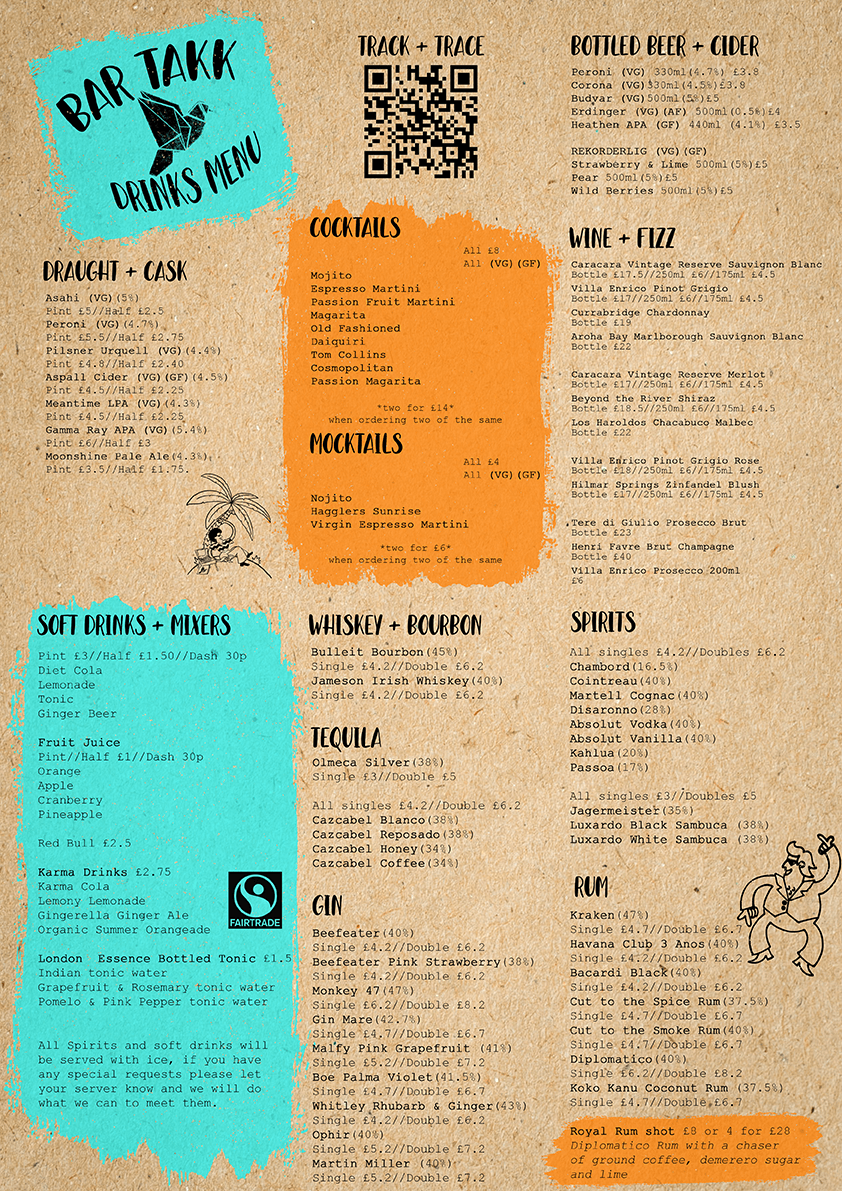
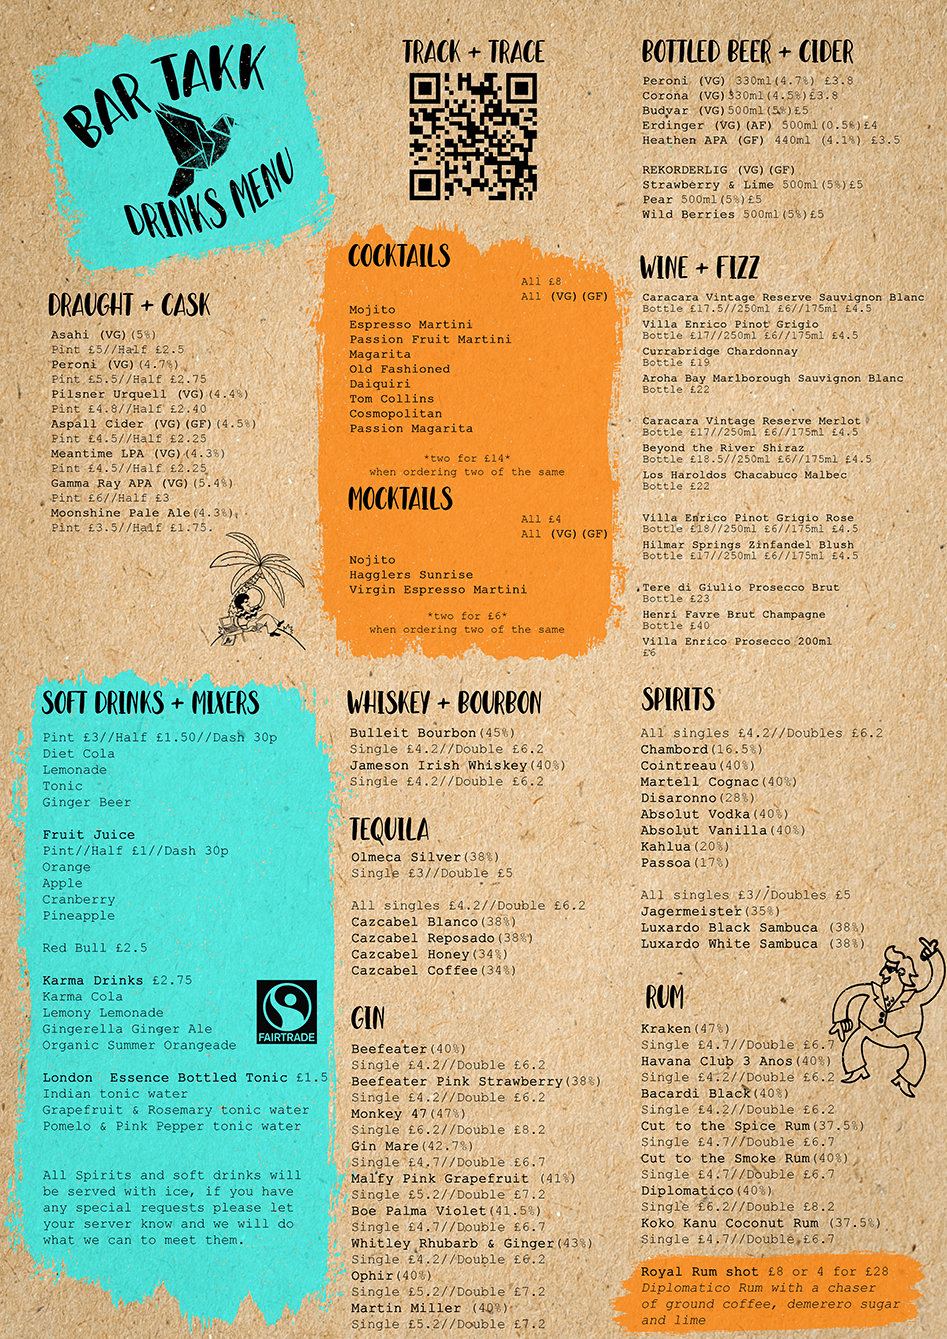
apr-21

diff --git a/src/menus/BarMenu.js b/src/menus/BarMenu.js
@@ -1,6 +1,7 @@
 import React, { useState } from 'react'
 import {
     Button,
+    Grid,
     Card,
     Header,
     Icon,
@@ -9,7 +10,7 @@ import {
     Modal,
 } from 'semantic-ui-react'
 import BarMenuImage from './../assets/BarMenu.png'
-import BhajiShopImage from './../assets/BhajiShopImage.jpg'
+import BhajiShopImage from './../assets/BhajiShopImage_narrow.png'
 
 export default function () {
     const [modalOpen, setModalOpen] = useState(false)
@@ -34,7 +35,7 @@ export default function () {
                     />
                 </Modal.Content>
             </Modal>
-            <Header as="h2" color="purple">
+            <Header as="h2" color="black">
                 <Header.Content>
                     <Icon name="food" size="small" />
                     <Icon name="bar" size="small" />
@@ -42,7 +43,7 @@ export default function () {
                 </Header.Content>
             </Header>
             <Card.Group itemsPerRow={1}>
-                <Card>
+                <Card raised>
                     <Card.Content>
                         <Card.Header>Takk Drinks Menu</Card.Header>
                     </Card.Content>
@@ -60,7 +61,7 @@ export default function () {
                     <Card.Content extra>
                         <Button
                             color="teal"
-                            onClick={() => handleSetOpen('/BarMenu.jpg')}
+                            onClick={() => handleSetOpen('/BarMenu2021.png')}
                         >
                             <Icon name="image outline" />
                             Menu
@@ -69,13 +70,8 @@ export default function () {
                 </Card>
             </Card.Group>
             <Card.Group itemsPerRow={1}>
-                <Card as="a">
-                    <Label
-                        as="a"
-                        color="purple"
-                        ribbon
-                        style={{ left: '-1rem' }}
-                    >
+                <Card raised>
+                    <Label color="purple" ribbon style={{ left: '-1rem' }}>
                         See the chalk boards for today's curry pots
                     </Label>
                     <Card.Content>
@@ -87,6 +83,37 @@ export default function () {
                         style={{ width: '100%' }}
                     />
                     <Card.Content>
+                        <Grid columns={2}>
+                            {[
+                                {
+                                    text: 'Thalis',
+                                    src: '/Bhaji_Menu_Thalis.png',
+                                },
+                                {
+                                    text: 'Coffee & cake',
+                                    src: '/Bhaji_Menu_Coffee_Cakes.png',
+                                },
+                                {
+                                    text: 'Brunch',
+                                    src: '/Bhaji_Menu_Brunch.png',
+                                },
+                                { text: 'Lunch', src: '/Bhaji_Menu_Lunch.png' },
+                            ].map((img) => (
+                                <Grid.Column>
+                                    <Button
+                                        style={{ width: '90%' }}
+                                        key={img.src}
+                                        color="teal"
+                                        onClick={() => handleSetOpen(img.src)}
+                                    >
+                                        <Icon name="image outline" />
+                                        {img.text}
+                                    </Button>
+                                </Grid.Column>
+                            ))}
+                        </Grid>
+                    </Card.Content>
+                    <Card.Content extra>
                         <Card.Description>
                             Serving freshly cooked Indian inspire food.
                         </Card.Description>

diff --git a/src/loginForm/index.js b/src/loginForm/index.js
@@ -78,13 +78,13 @@ const LoginForm = ({ db }) => {
     }
     return (
         <>
-            <Message success={formSucces}>
+            <Message success={formSucces} raised size="small">
                 <Message.Header>Check in</Message.Header>This form's for track
-                and trace. The data will only be shared with NHS track and
-                trace, and only if required. Opt-in for special offers, events
-                and more good times.
+                and trace and the data will only be shared with NHS track and
+                trace, if required. Opt-in for special offers, events and more
+                good times.
             </Message>
-            <Header as="h2" color="purple" textAlign="center">
+            <Header as="h2" color="black" textAlign="center">
                 Track and trace
             </Header>
 
@@ -95,7 +95,7 @@ const LoginForm = ({ db }) => {
                     error={formError}
                     success={formSucces}
                 >
-                    <Segment stacked>
+                    <Segment stacked raised>
                         <Form.Input
                             error={
                                 (formError && state.nameError) ||

diff --git a/src/menus/RulesAndRegs.js b/src/menus/RulesAndRegs.js
@@ -25,11 +25,19 @@ export default function () {
                     />
                 </Modal.Content>
             </Modal>
-            <Header as="h2" color="purple">
+            <Header
+                as="h2"
+                color="black"
+                style={{
+                    background: 'white',
+                    padding: '0.25rem',
+                    borderRadius: ' 2px',
+                }}
+            >
                 <Header.Content>Rules and regulations</Header.Content>
             </Header>
             <Card.Group itemsPerRow={1}>
-                <Card>
+                <Card raised>
                     <img
                         src="RulesAndRegulations.png"
                         alt="The rules and regulations whilst at Hagglers"
